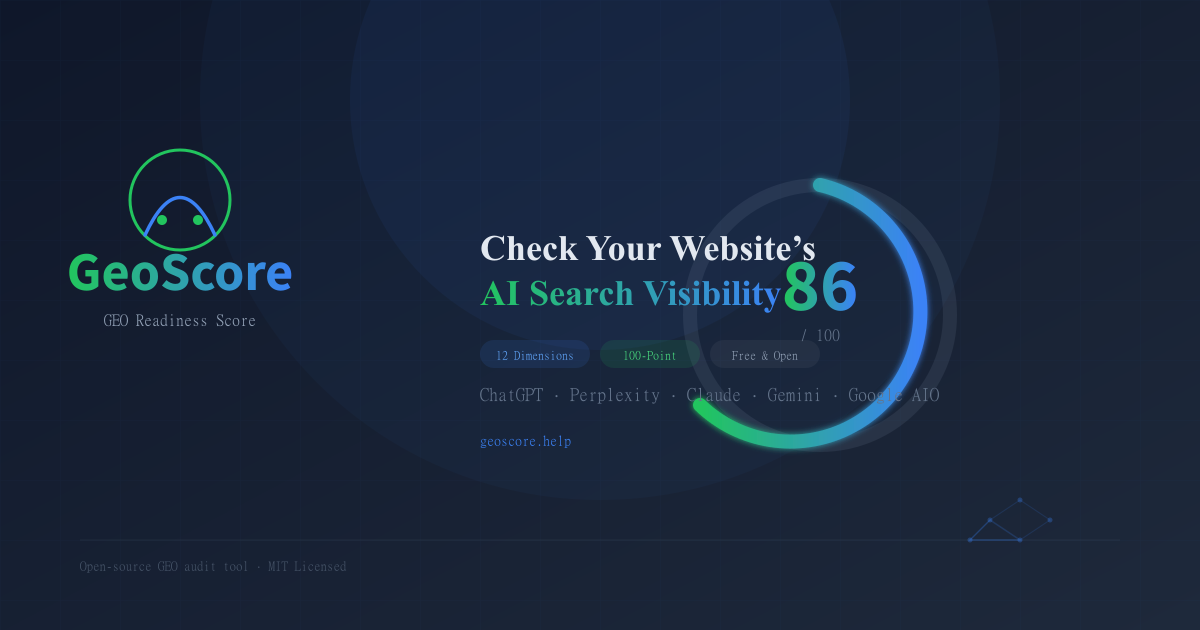
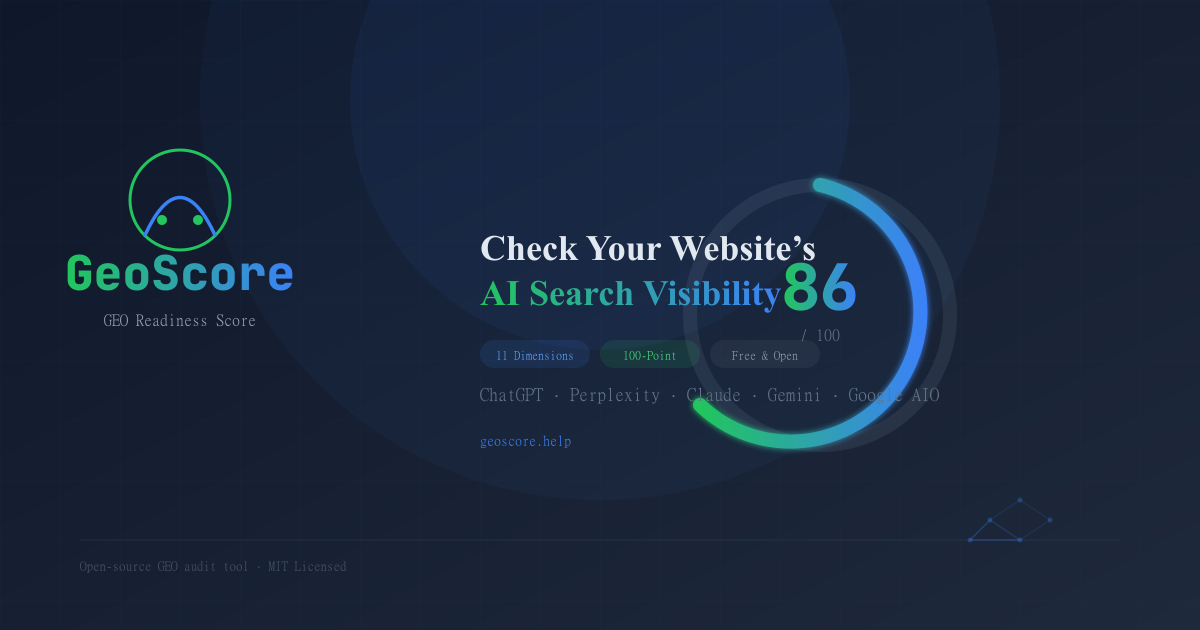
docs: align dimension counts and handbook links

Changed region(s): [[0.0617, 0.3921, 0.2467, 0.4825], [0.6475, 0.4222, 0.7092, 0.4825]]

diff --git a/src/lib/scanner.js b/src/lib/scanner.js
@@ -1,5 +1,5 @@
 /**
- * Main scanner — orchestrates fetching and analysis across all 12 dimensions.
+ * Main scanner — orchestrates fetching and analysis across 11 weighted dimensions plus deduction checks.
  */
 import { fetchResource, fetchPageWithHeaders } from './fetcher.js';
 import { analyzeRobots } from './analyzers/robots.js';

diff --git a/docs/handbook/README.md b/docs/handbook/README.md
@@ -9,7 +9,7 @@
 [![Awesome GEO](https://awesome.re/badge.svg)](https://github.com/amplifying-ai/awesome-generative-engine-optimization)
 [![Website](https://img.shields.io/badge/🌐-geoscore.help-blue)](https://geoscore.help/)
 
-> **⚡ Try it live — [GeoScore](https://geoscore.help)**: a free, open-source GEO audit tool built on this handbook. Enter any URL and get a 0–100 readiness score across 12 weighted dimensions, with prioritized fixes.
+> **⚡ Try it live — [GeoScore](https://geoscore.help)**: a free, open-source GEO audit tool built on this handbook. Enter any URL and get a 0–100 readiness score across 11 weighted dimensions, with deductions for negative signals and prompt injection, plus prioritized fixes.
 
 ---
 
@@ -73,7 +73,7 @@ Coined in the paper [*GEO: Generative Engine Optimization*](https://arxiv.org/ab
 | Resource | What It Does |
 |----------|-------------|
 | [Pre-Publish Checklist](./checklists/pre-publish-checklist.md) | 8-item self-check before publishing any content |
-| [Audit Scoring](./checklists/audit-scoring.md) | 8-dimension scoring system (0-100) |
+| [Audit Scoring](./checklists/audit-scoring.md) | Standalone 8-dimension rubric from Auriti-Labs; separate from GeoScore's 11-dimension implementation |
 | [Robots.txt Template](./templates/robots-template.md) | Allow AI citation, block AI training |
 | [Promotion Launch Checklist](./promotion-checklist.md) | Step-by-step launch plan for Reddit / Hacker News (account rules, post types, do/don't) |
 
@@ -111,7 +111,7 @@ cat practical-guides/01-static-site-geo.md
 ## 🏗 Project Structure
 
 ```
-geo-optimization-handbook/
+docs/handbook/
 ├── README.md
 ├── LICENSE
 ├── CONTRIBUTING.md
@@ -161,7 +161,7 @@ geo-optimization-handbook/
 
 | Project | Description |
 |---------|-------------|
-| [GeoScore](https://geoscore.help/) 🏠 **Official Site** | Free GEO audit tool — scores your site 0–100 across 12 dimensions, generates llms.txt, robots.txt, and JSON-LD fixes. Built from this handbook's methodology. |
+| [GeoScore](https://geoscore.help/) 🏠 **Official Site** | Free GEO audit tool — scores your site 0–100 across 11 weighted dimensions plus deductions, generates llms.txt, robots.txt, and JSON-LD fixes. Built from this handbook's methodology. |
 
 ## 🤝 Contributing
 

diff --git a/docs/handbook/promotion-drafts.md b/docs/handbook/promotion-drafts.md
@@ -28,7 +28,7 @@ What's inside:
 
 Happy to take feedback or questions — GEO moves fast and I'd love help keeping it accurate.
 
-https://github.com/qq136692547-cmyk/geo-optimization-handbook
+https://github.com/qq136692547-cmyk/geo-score/tree/main/docs/handbook
 
 ---
 
@@ -51,7 +51,7 @@ I turned what I learned into a free, open-source handbook. It covers:
 
 There's a dedicated guide for optimizing GitHub Pages / static sites for AI citation.
 
-https://github.com/qq136692547-cmyk/geo-optimization-handbook
+https://github.com/qq136692547-cmyk/geo-score/tree/main/docs/handbook
 
 ---
 
@@ -75,7 +75,7 @@ I put together a free, open-source guide aimed at small business owners. The 5-s
 
 No technical SEO experience required.
 
-https://github.com/qq136692547-cmyk/geo-optimization-handbook/blob/main/practical-guides/04-small-business-geo.md
+https://github.com/qq136692547-cmyk/geo-score/blob/main/docs/handbook/practical-guides/04-small-business-geo.md
 
 ---
 
@@ -98,7 +98,7 @@ What got me into it: after reading the KDD 2024 GEO paper, I saw Ahrefs data sho
 
 It includes recent 2025–2026 research (C-SEO Bench / NeurIPS 2025, IF-GEO, AutoGEO / ICLR 2026). MIT licensed, PRs welcome.
 
-https://github.com/qq136692547-cmyk/geo-optimization-handbook
+https://github.com/qq136692547-cmyk/geo-score/tree/main/docs/handbook
 
 **注意（HN 铁律）：**
 - 正文必须是你**本人手写**，不要用 AI 生成/AI 润色文本贴上去（HN 指南明确禁止 posted generated text）。

diff --git a/README.md b/README.md
@@ -96,7 +96,7 @@ geo-score/
 │   ├── pages/           # Astro pages (index, audit/[url], about)
 │   ├── components/      # UI components (radar chart, export, history)
 │   ├── lib/             # Core library
-│   │   ├── analyzers/   # 13 dimension analyzers
+│   │   ├── analyzers/   # 11 dimension analyzers + 2 deduction checks
 │   │   ├── scanner.js   # Main orchestrator
 │   │   ├── fetcher.js   # Resource fetching
 │   │   ├── scoring.js   # Score computation

diff --git a/docs/handbook/promotion-checklist.md b/docs/handbook/promotion-checklist.md
@@ -1,6 +1,6 @@
 # 推广发布清单（Promotion Launch Checklist）
 
-> 用途：手动把 geo-optimization-handbook 推广到 Reddit / Hacker News 时的操作步骤。
+> 用途：手动把 GeoScore 仓库内的 GEO Optimization Handbook（`docs/handbook`）推广到 Reddit / Hacker News 时的操作步骤。
 > 文案见 [promotion-drafts.md](./promotion-drafts.md)。所有发布动作需用**你自己的账号**完成。
 
 ## 0. 发布前自检（账号层面）

diff --git a/docs/handbook/checklists/audit-scoring.md b/docs/handbook/checklists/audit-scoring.md
@@ -1,6 +1,6 @@
 # GEO Audit Scoring (0–100)
 
-> 8-dimension scoring system for AI search engine visibility. Based on the Auriti-Labs GEO Optimizer framework.
+> Standalone 8-dimension scoring rubric for AI search engine visibility, based on the Auriti-Labs GEO Optimizer framework. This is a general handbook rubric, not the same as GeoScore's 11 weighted dimensions plus deductions.
 
 ---
 
